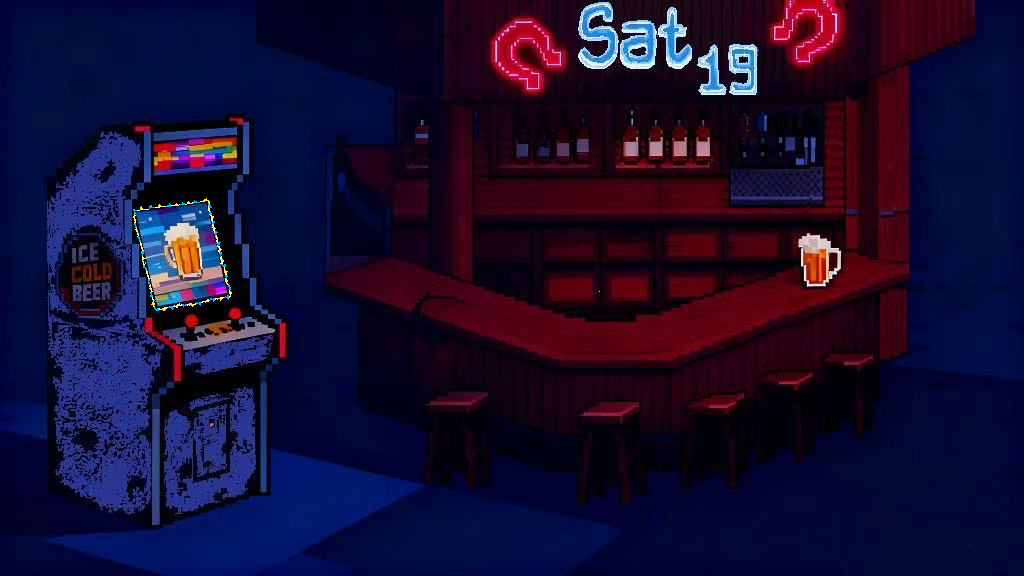
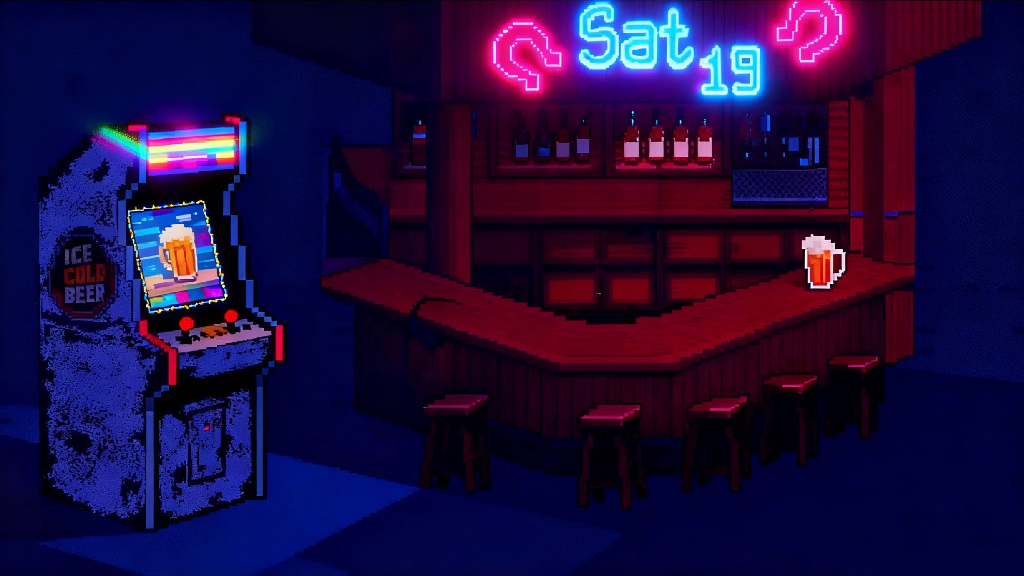
主页动图

diff --git a/core/scenes/main_menu/menuScene.py b/core/scenes/main_menu/menuScene.py
@@ -23,11 +23,11 @@ class MenuScene(Scene, menu_nav.MenuNavigationMixin):
         
         self.background_frames = []
         self.animation_timer = 0.0
-        self.animation_speed = 0.5  # 切换速度（秒）
-        
+        self.animation_speed = 0.45  # 切换速度（秒）
+
         try:
             # 加载两张背景图
-            for i in [1, 2]:
+            for i in range(0, 3):
                 bg_path = menu_bg_dir / f"menu_background-{i}.png"
                 if bg_path.exists():
                     bg = pygame.image.load(str(bg_path)).convert()
